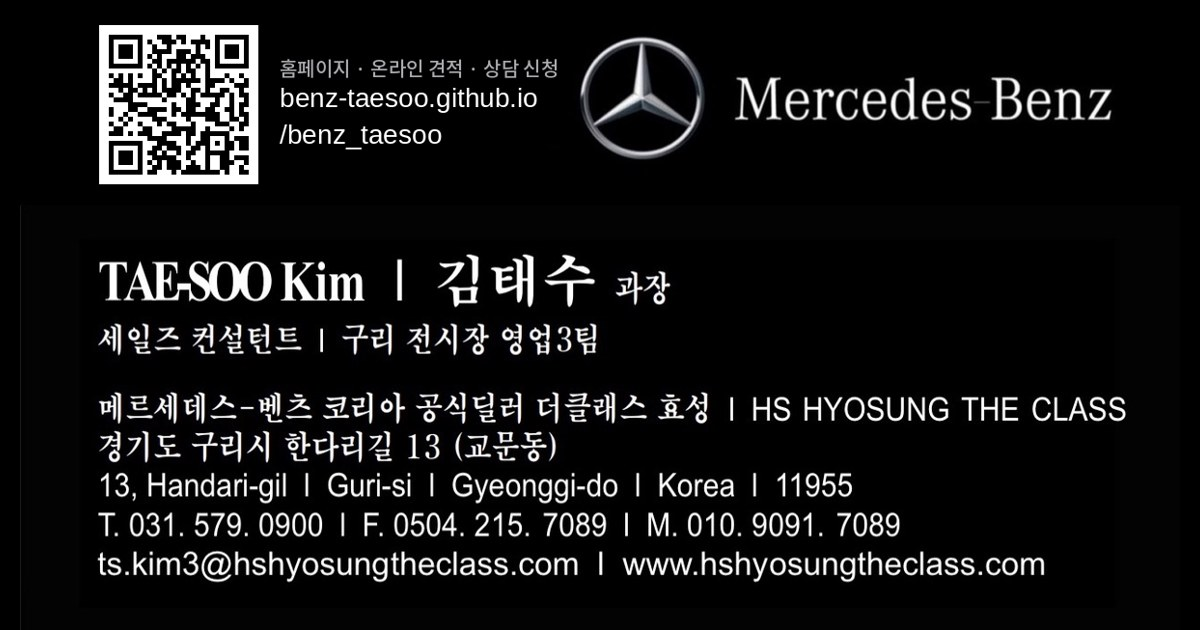
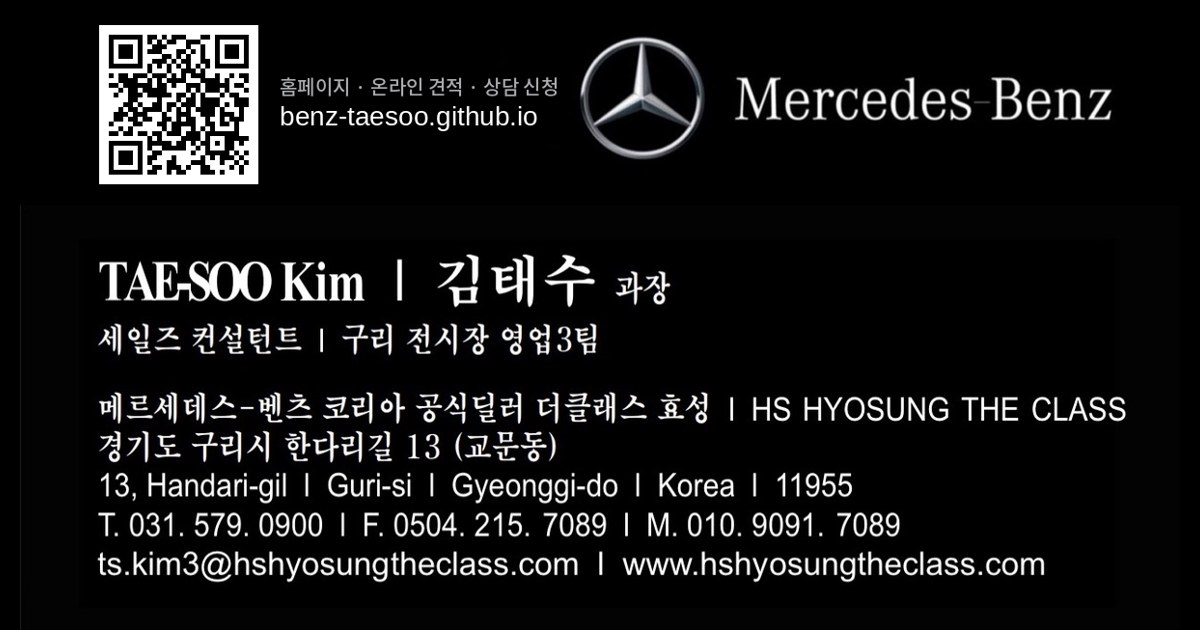
모바일 명함: 주소를 benz-taesoo.github.io로 변경
Claude-Session: https://claude.ai/code/session_019i4bnZkXmX3L2KJAX5Awwg

Changed region(s): [[0.0925, 0.0302, 0.4625, 0.3016]]

diff --git a/card.html b/card.html
@@ -8,9 +8,9 @@
 <meta property="og:type" content="profile">
 <meta property="og:title" content="김태수 과장 · 메르세데스-벤츠 HS효성 더클래스 구리전시장">
 <meta property="og:description" content="명함과 연락처 저장, 11월 혜택 · 실구매가 계산 · 견적 상담 바로가기">
-<meta property="og:image" content="https://benz-taesoo.github.io/benz_taesoo/img/card-og.jpg">
+<meta property="og:image" content="https://benz-taesoo.github.io/img/card-og.jpg">
 <meta property="og:image:width" content="1200"><meta property="og:image:height" content="630">
-<meta property="og:url" content="https://benz-taesoo.github.io/benz_taesoo/card.html">
+<meta property="og:url" content="https://benz-taesoo.github.io/card.html">
 <meta name="twitter:card" content="summary_large_image">
 <meta name="theme-color" content="#000000">
 <link rel="icon" href="img/profile.jpg">
@@ -63,20 +63,20 @@ textarea{width:100%;min-height:200px;resize:vertical;border-radius:12px;border:1
   </section>
 
   <p class="sec-t">바로가기</p>
-  <a class="btn b-main" href="https://benz-taesoo.github.io/benz_taesoo/">11월 혜택 · 실구매가 계산 · 견적 보기</a>
+  <a class="btn b-main" href="https://benz-taesoo.github.io/">11월 혜택 · 실구매가 계산 · 견적 보기</a>
   <div class="g2">
     <a class="btn b-l" href="tel:01090917089">전화하기</a>
     <a class="btn b-k" href="https://open.kakao.com/o/sOzF0QQh">카톡 상담</a>
     <a class="btn b-l" href="kimtaesoo.vcf" download="김태수_벤츠.vcf">연락처 저장</a>
     <a class="btn b-l" href="img/card.png" download="김태수_명함.png" id="save">명함 이미지 저장</a>
   </div>
-  <a class="btn b-l" href="https://benz-taesoo.github.io/benz_taesoo/#consult">상담 신청서 작성</a>
+  <a class="btn b-l" href="https://benz-taesoo.github.io/#consult">상담 신청서 작성</a>
   <p class="fine">경기도 구리시 한다리길 13 (교문동) · T. 031-579-0900 · M. 010-9091-7089 · ts.kim3@hshyosungtheclass.com<br>이 페이지는 김태수가 개인적으로 운영하는 상담 채널입니다.</p>
 </main>
 <div class="toast" id="toast" role="status" aria-live="polite"></div>
 <script>
 (function(){
-  var BASE='https://benz-taesoo.github.io/benz_taesoo/', CARD=BASE+'card.html';
+  var BASE='https://benz-taesoo.github.io/', CARD=BASE+'card.html';
   var $=function(id){return document.getElementById(id)};
   var msg=$('msg');
   msg.value='안녕하세요, 메르세데스-벤츠 HS효성 더클래스 구리전시장 김태수 과장입니다.\n\n이달 프로모션과 실구매가 계산, 차종별 옵션 · 색상을 아래 홈페이지에서 바로 확인하실 수 있습니다.\n'+BASE+'\n\n연락처 저장 · 모바일 명함\n'+CARD+'\n\n궁금하신 점은 언제든 편하게 연락 주세요.\n김태수 010-9091-7089';
